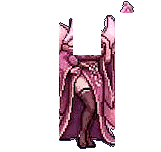
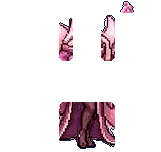
部位動作：腳不動、上半身加上呼吸與聳肩
- 拿掉下襬／披風甩動（會帶動腿和腳）
- 新增上半身（肩膀到腰）一層：以腰為軸慢慢呼吸，吸氣時肩膀和胸口一起微微上抬、身體稍微變寬，頭跟著起伏；
  點一下時聳肩一下、頭跟著抬起再歪頭
- 有拆部位的角色，整張圖不再伸縮和左右彎曲（會帶動腳），只保留漂浮和點擊跳一下；腳留在身體層不動
- 九尾狐第 1 階段（小狐狸）沒有上半身層，維持搖尾巴和歪頭
- sw.js 快取版本 v33

Claude-Session: https://claude.ai/code/session_016wQJDqNmeMZi3CzSXZ7hYD

Changed region(s): [[0.3416, 0.3421, 0.7143, 0.6842]]

diff --git a/web/style.css b/web/style.css
@@ -894,14 +894,16 @@ ol.steps { margin: 0; padding-left: 1.4em; font-size: .9375rem; line-height: 1.7
   .rig .rp-fanL { animation: idle-fanL 4s ease-in-out infinite; }
   .rig .rp-fanR { animation: idle-fanR 4s ease-in-out infinite; }
   .rig .rp-wag { animation: idle-wag 2.6s ease-in-out infinite; }
-  .rig .rp-tilt { animation: idle-tilt 8s ease-in-out infinite; }
+  .rig .rp-tilt { animation: idle-tilt 8s ease-in-out infinite, head-ride 4s ease-in-out infinite; }
+  /* 上半身呼吸：以腰為軸，吸氣時肩膀、胸口一起微微上抬、身體稍微變寬；頭跟著起伏。腳在身體層，不動 */
+  .rig .rp-breath { animation: torso-breath 4s ease-in-out infinite; }
+  .pet.react .rig .rp-breath { animation: shrug .9s ease-in-out 1; }
   .pet.react .rig .rp-flapL { animation: flapL .95s ease-in-out 1; }
   .pet.react .rig .rp-flapR { animation: flapR .95s ease-in-out 1; }
   .pet.react .rig .rp-fanL { animation: fanL 1s cubic-bezier(.3, 1.4, .5, 1) 1; }
   .pet.react .rig .rp-fanR { animation: fanR 1s cubic-bezier(.3, 1.4, .5, 1) 1; }
   .pet.react .rig .rp-wag { animation: wag .9s ease-in-out 1; }
   .pet.react .rig .rp-tilt { animation: tilt 1s ease-in-out 1; }
-  .pet.react .rig .rp-swish { animation: swish 1s ease-in-out 1; }
   /* 待機：很小的幅度，讓翅膀、尾巴一直有一點生命感 */
   @keyframes idle-flapL { 0%, 100% { rotate: 0deg; } 50% { rotate: 4deg; } }
   @keyframes idle-flapR { 0%, 100% { rotate: 0deg; } 50% { rotate: -4deg; } }
@@ -915,6 +917,17 @@ ol.steps { margin: 0; padding-left: 1.4em; font-size: .9375rem; line-height: 1.7
   @keyframes fanL { 0%, 100% { rotate: 0deg; } 35% { rotate: 11deg; } 65% { rotate: -2deg; } }
   @keyframes fanR { 0%, 100% { rotate: 0deg; } 35% { rotate: -11deg; } 65% { rotate: 2deg; } }
   @keyframes wag { 0%, 100% { rotate: 0deg; } 20% { rotate: 16deg; } 45% { rotate: -12deg; } 70% { rotate: 9deg; } 88% { rotate: -4deg; } }
-  @keyframes tilt { 0%, 100% { rotate: 0deg; } 30% { rotate: -7deg; } 65% { rotate: 4deg; } }
-  @keyframes swish { 0%, 100% { transform: skewX(0); } 30% { transform: skewX(7deg); } 60% { transform: skewX(-5deg); } 82% { transform: skewX(2deg); } }
+  @keyframes tilt { 0%, 100% { rotate: 0deg; translate: 0 0; } 30% { rotate: -7deg; translate: 0 -2px; } 65% { rotate: 4deg; translate: 0 0; } }
+  @keyframes head-ride { 0%, 100% { translate: 0 0; } 50% { translate: 0 -1.5px; } }
+  @keyframes torso-breath { 0%, 100% { scale: 1 1; } 50% { scale: 1.012 1.03; } }
+  @keyframes shrug { 0%, 100% { scale: 1 1; translate: 0 0; } 30% { scale: 1.02 1.04; translate: 0 -2px; } 60% { scale: .995 .99; translate: 0 0; } }
+}
+
+/* 有拆部位的角色：整張圖不再伸縮、彎曲（會帶動腳），呼吸交給上半身那一層；漂浮、點擊跳一下照常 */
+@media (prefers-reduced-motion: no-preference) {
+  .pet .wavy.rig { animation: idle-hop 8s ease-in-out infinite; }
+  .pet.sway .wavy.rig { animation: idle-hop 8s ease-in-out infinite; }
+  .pet.floaty .wavy.rig, .pet.floaty.sway .wavy.rig { animation: hover 4s steps(15, jump-none) infinite alternate; }
+  .pet.hop .wavy.rig { animation: hop .6s cubic-bezier(.3, 1.6, .5, 1) 1; }
+  .pet.floaty.hop .wavy.rig { animation: lift .7s cubic-bezier(.3, 1.4, .5, 1) 1; }
 }

diff --git a/web/js/core.js b/web/js/core.js
@@ -277,8 +277,8 @@ const PET_FRONT = {
 const petFront = (id) => (PET_FRONT[id] ? `<span class="scene-front" aria-hidden="true">${PET_FRONT[id]()}</span>` : "");
 
 // 夥伴圖：有拆部位的（rigs.json）用分層組回角色，點擊時頭、翅膀、尾巴、下襬各自動；沒有的用整張圖
-// 圖層順序：翅膀、尾巴、魔力圈在身體後面；下襬、頭在身體前面
-const RIG_Z = { wingL: 0, wingR: 0, tail: 0, tailL: 0, tailR: 0, ringL: 0, ringR: 0, lower: 2, head: 3 };
+// 圖層順序：翅膀、尾巴、魔力圈在身體後面；上半身、頭在前面。腳留在身體層，不另外動
+const RIG_Z = { wingL: 0, wingR: 0, tail: 0, tailL: 0, tailR: 0, ringL: 0, ringR: 0, torso: 2, head: 3 };
 function petSprite(id, stage, boxH) {
   const rig = S.rigs?.[id]?.[stage + 1], sp = species(id);
   if (!rig || !sp) return charImg(id, stage, boxH);

diff --git a/web/sw.js b/web/sw.js
@@ -1,5 +1,5 @@
 // 只快取 App 外殼，讓主畫面圖示在網路不穩時也打得開；API 一律走網路。
-const CACHE = "ic8-shell-v32";
+const CACHE = "ic8-shell-v33";
 const SHELL = ["/", "/style.css", "/js/core.js", "/js/summary.js", "/js/activity.js", "/js/analysis.js",
   "/js/me.js", "/js/brief.js", "/js/apple.js", "/js/strength.js", "/js/learn.js", "/js/runner.js", "/js/share.js", "/js/main.js", "/manifest.webmanifest", "/characters/manifest.json", "/icons/apple-touch-icon.png"];
 

diff --git a/tools/rig_split.py b/tools/rig_split.py
@@ -23,28 +23,28 @@ ROOT = Path(__file__).resolve().parent.parent
 CHARS = ROOT / "web" / "characters"
 
 # 部位：(名稱, [x0, y0, x1, y1], [關節 x, y], 動作)
-# 動作：tilt 歪頭、flapL/flapR 拍翅、fanL/fanR 尾巴（或魔力圈）往外展開、wag 搖尾巴、swish 下襬甩
+# 動作：tilt 歪頭、flapL/flapR 拍翅、fanL/fanR 尾巴（或魔力圈）往外展開、wag 搖尾巴、breath 上半身呼吸（腳不動）
 # 前面的部位優先：同一個像素落在兩個框裡，算給前面那個
 RIGS: dict[str, dict[int, list]] = {
     "succubus": {
-        1: [("head", [30, 0, 82, 47], [52, 47], "tilt"), ("tail", [6, 64, 37, 97], [37, 85], "wag")],
-        2: [("head", [28, 0, 82, 57], [55, 57], "tilt"), ("tail", [0, 85, 41, 126], [41, 92], "wag")],
+        1: [("head", [30, 0, 82, 47], [52, 47], "tilt"), ("tail", [6, 64, 37, 97], [37, 85], "wag"), ("torso", [18, 47, 76, 76], [50, 76], "breath")],
+        2: [("head", [28, 0, 82, 57], [55, 57], "tilt"), ("tail", [0, 85, 41, 126], [41, 92], "wag"), ("torso", [26, 57, 82, 92], [55, 92], "breath")],
         3: [("head", [38, 8, 92, 57], [63, 57], "tilt"), ("wingL", [2, 58, 33, 112], [33, 64], "flapL"),
-            ("wingR", [92, 68, 112, 108], [92, 70], "flapR"), ("lower", [22, 118, 95, 175], [60, 118], "swish")],
+            ("wingR", [92, 68, 112, 108], [92, 70], "flapR"), ("torso", [33, 57, 95, 110], [63, 110], "breath")],
         4: [("head", [66, 4, 110, 47], [88, 47], "tilt"), ("wingL", [8, 18, 60, 108], [60, 42], "flapL"),
-            ("wingR", [116, 18, 165, 120], [116, 42], "flapR"), ("lower", [30, 108, 135, 168], [88, 108], "swish")],
+            ("wingR", [116, 18, 165, 120], [116, 42], "flapR"), ("torso", [60, 47, 118, 100], [88, 100], "breath")],
         5: [("head", [52, 22, 90, 60], [70, 60], "tilt"), ("ringL", [0, 8, 46, 100], [46, 50], "fanL"),
-            ("ringR", [94, 8, 130, 100], [94, 50], "fanR"), ("lower", [10, 105, 120, 175], [65, 105], "swish")],
+            ("ringR", [94, 8, 130, 100], [94, 50], "fanR"), ("torso", [46, 58, 94, 100], [70, 100], "breath")],
     },
     "fox_spirit": {
         1: [("head", [36, 0, 77, 42], [52, 40], "tilt"), ("tail", [4, 18, 36, 66], [36, 52], "wag")],
-        2: [("head", [48, 8, 82, 46], [64, 46], "tilt"), ("tailL", [6, 38, 50, 112], [50, 70], "fanL")],
+        2: [("head", [48, 8, 82, 46], [64, 46], "tilt"), ("tailL", [6, 38, 50, 112], [50, 70], "fanL"), ("torso", [46, 46, 85, 95], [64, 95], "breath")],
         3: [("head", [70, 14, 100, 60], [86, 60], "tilt"), ("tailL", [8, 40, 62, 125], [62, 80], "fanL"),
-            ("tailR", [110, 55, 130, 120], [110, 80], "fanR"), ("lower", [30, 125, 125, 160], [85, 125], "swish")],
+            ("tailR", [110, 55, 130, 120], [110, 80], "fanR"), ("torso", [62, 60, 112, 118], [86, 118], "breath")],
         4: [("head", [70, 4, 104, 58], [87, 58], "tilt"), ("tailL", [0, 10, 62, 150], [62, 85], "fanL"),
-            ("tailR", [112, 10, 161, 150], [112, 85], "fanR")],
+            ("tailR", [112, 10, 161, 150], [112, 85], "fanR"), ("torso", [62, 58, 112, 105], [87, 105], "breath")],
         5: [("head", [66, 0, 100, 58], [83, 58], "tilt"), ("tailL", [0, 15, 64, 150], [64, 90], "fanL"),
-            ("tailR", [102, 15, 165, 150], [102, 90], "fanR"), ("lower", [64, 118, 102, 164], [83, 118], "swish")],
+            ("tailR", [102, 15, 165, 150], [102, 90], "fanR"), ("torso", [64, 58, 102, 118], [83, 118], "breath")],
     },
 }
 OVERLAP = 3
